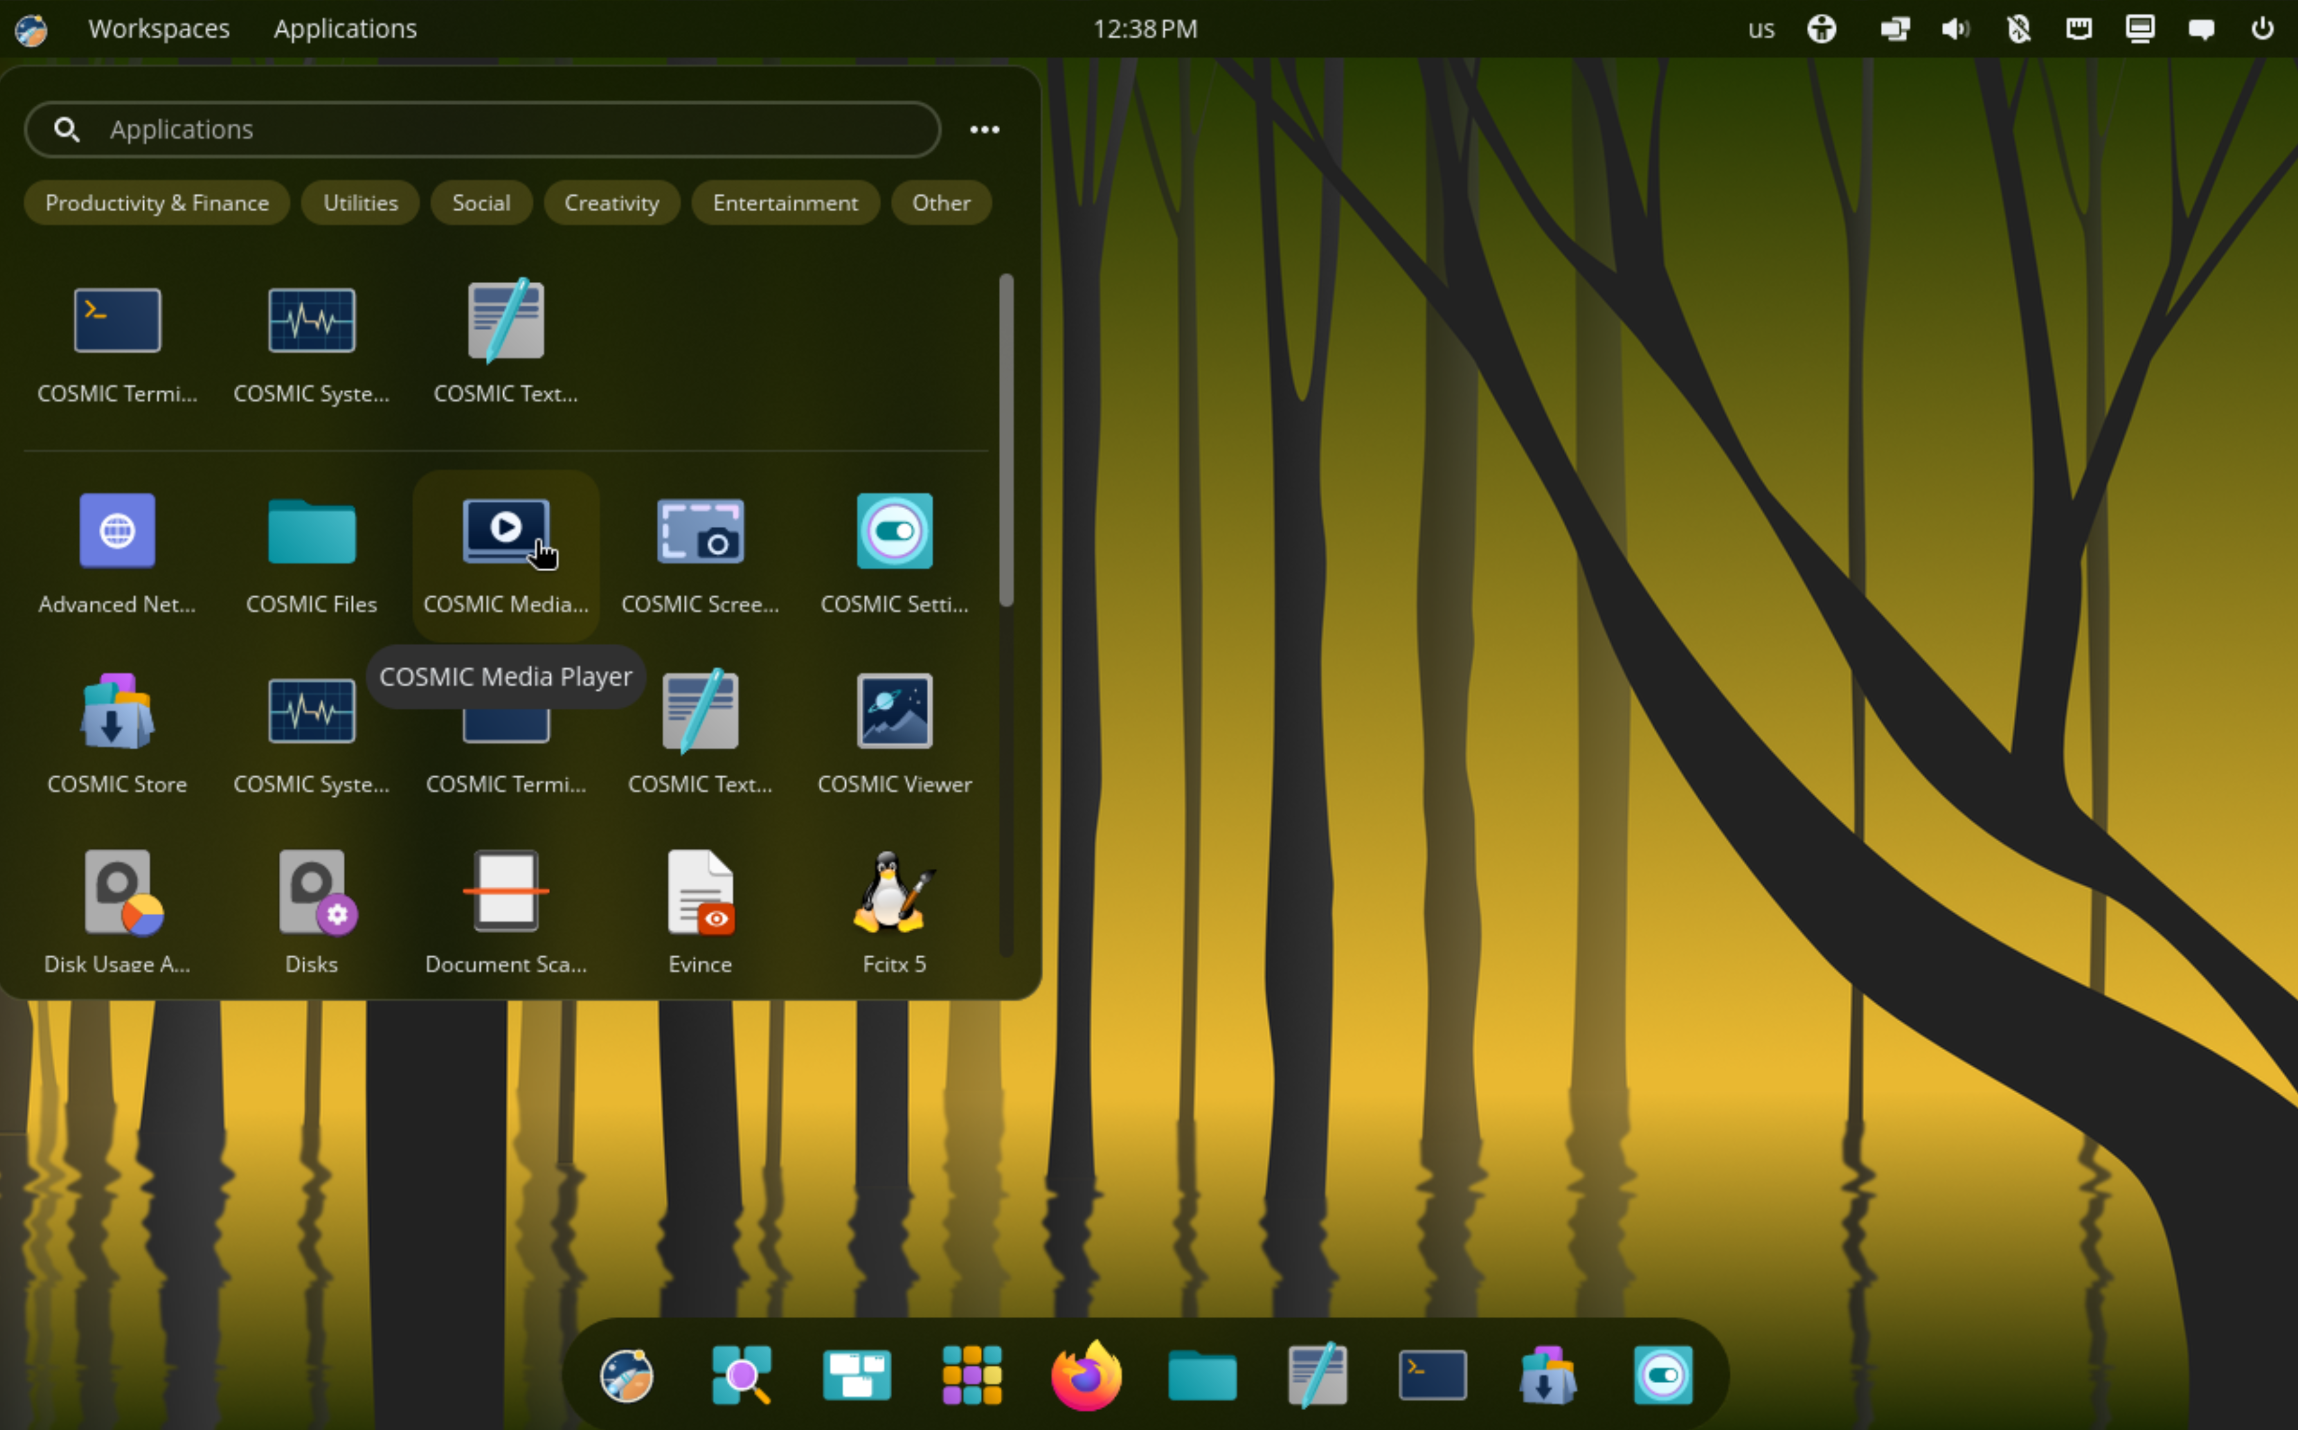
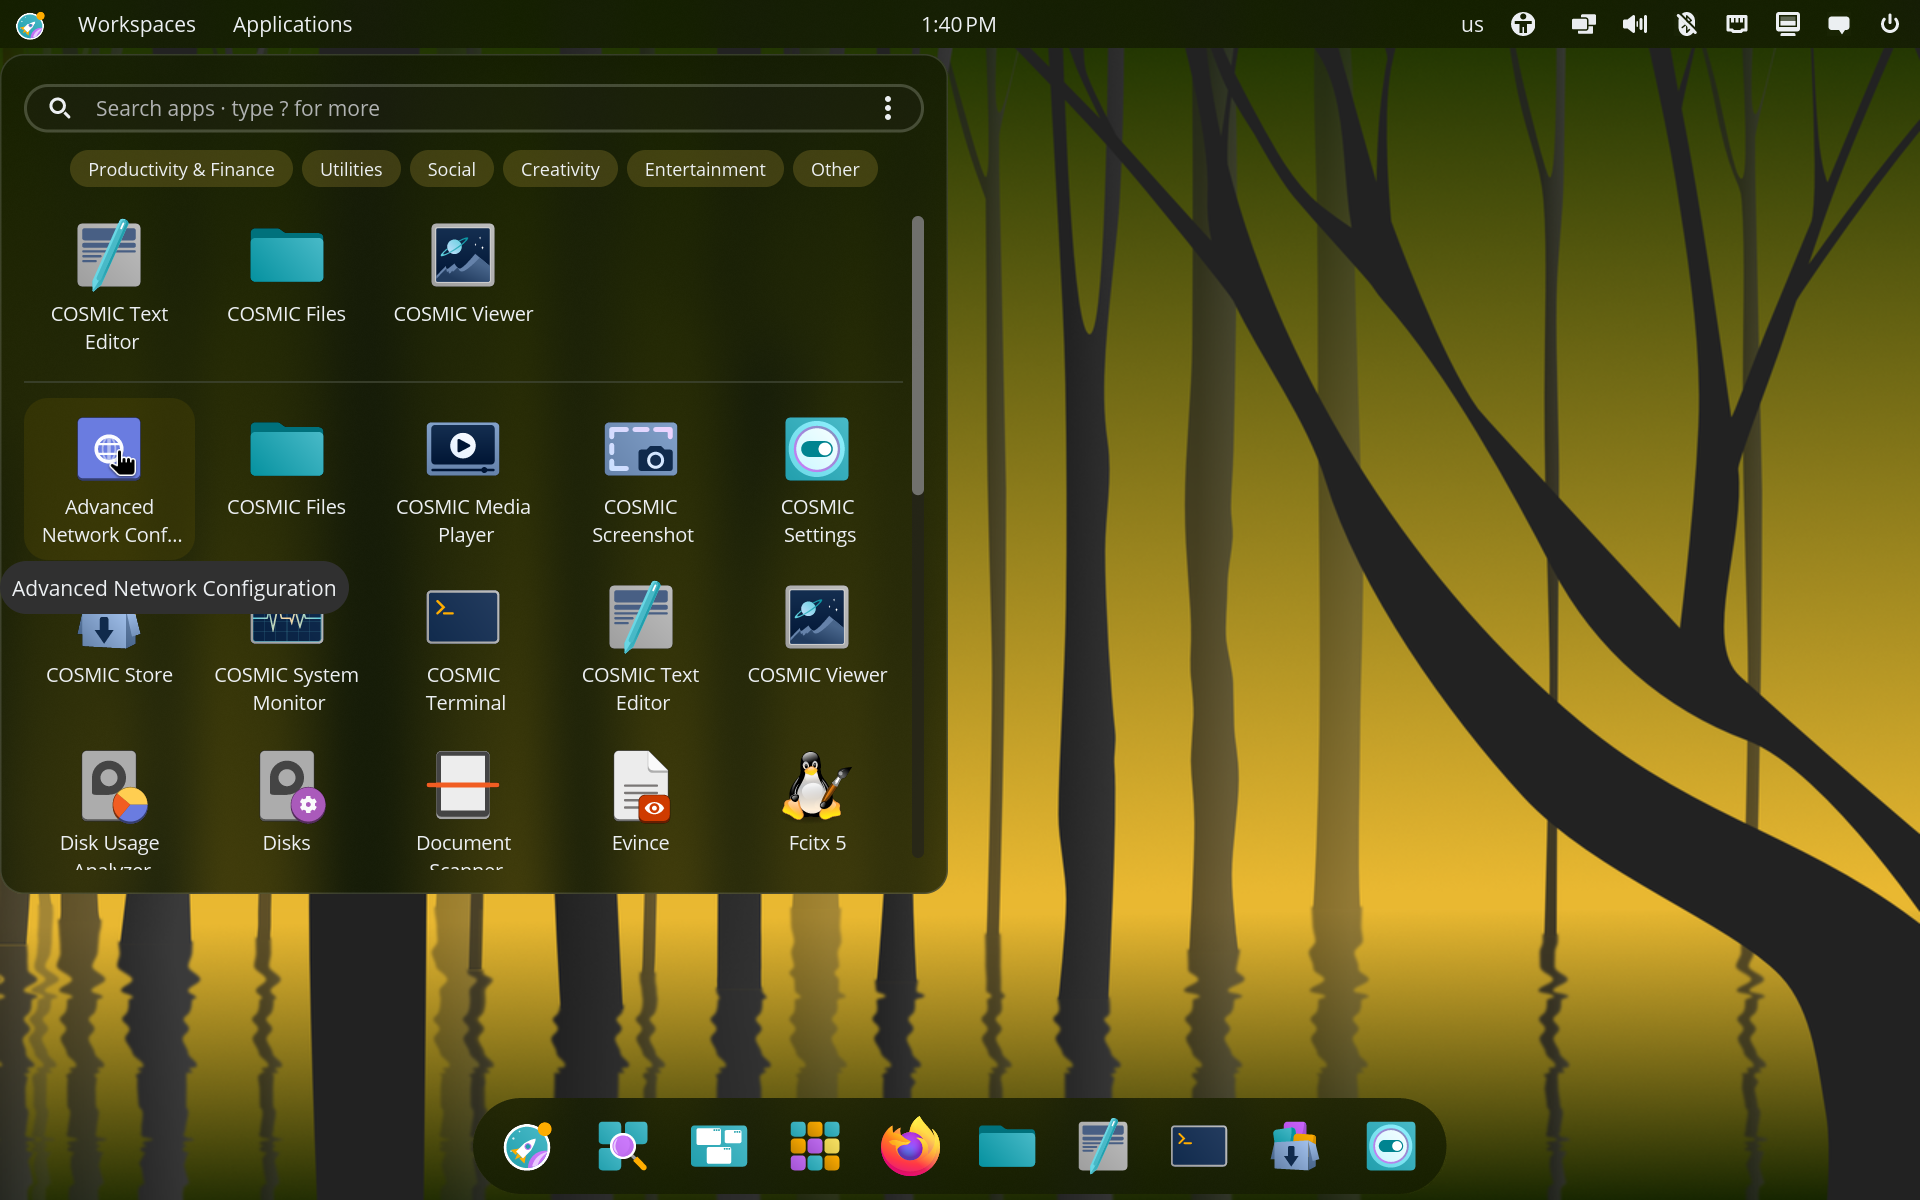
Update the README with new screenshots and features
The three screenshots are retaken in the same setups with the current
version (centered with a top panel and dock, centered with a bottom
panel, attached to the panel button), and two new ones show the search
plugins and the ⋮ menu. The feature list now covers the search plugins,
open-window search, Alt+N, the AppGrid-style labels and the font size
option, and the settings table lists font_size. A Developers section
follows the COSMIC applet template.

diff --git a/README.md b/README.md
@@ -8,20 +8,40 @@ A frosted-glass application grid launcher for the [COSMIC™](https://system76.c
 
 ![Oumuamua attached to its panel button](screenshots/attached-to-panel.png)
 
+![Typing ? lists the search plugins](screenshots/search-plugins.png)
+
+![The ⋮ menu with the font size option](screenshots/menu.png)
+
 This is a community project. It is not affiliated with or endorsed by System76.
 
 - **Always centered.** By default the grid opens in the exact middle of the screen, wherever the panel or dock is.
-- **Or attached to the panel.** The ⋯ menu turns it into a popup attached to its panel button, like the Windows 11 Start menu, and back again.
-- **Launchpad-style layout.** A search field, category chips (Productivity & Finance, Utilities, Social, Creativity, Entertainment, Other), a row of recently used apps, and a scrolling grid of all apps.
+- **Or attached to the panel.** The ⋮ menu in the search field turns it into a popup attached to its panel button, like the Windows 11 Start menu, and back again.
+- **AppGrid-style layout.** A search field, category chips (Productivity & Finance, Utilities, Social, Creativity, Entertainment, Other), a row of recently used apps, and a scrolling grid of all apps. App names wrap onto two lines like Plasma's AppGrid, and a tooltip shows the full name when it's cut short.
+- **One search field for everything.** Typing searches your apps and open windows. Prefixes turn the field into other tools; type `?` to list them:
+
+  | Type | What it does |
+  |---|---|
+  | `= 2 × (3 + 4)` or just `2+2` | Calculator. Enter copies the result. |
+  | `~/` | Browse files and folders. Tab completes. |
+  | `find name` | Find files and folders in your home folder. |
+  | `recent` | Recently opened documents. |
+  | `run command` or `t:command` | Run a command in a terminal. |
+  | `:command` | Run a command silently in the background. |
+  | `ddg`, `g`, `w`, `yt`, `gh` + words | Search DuckDuckGo, Google, Wikipedia, YouTube or GitHub. |
+  | `reboot`, `lock`, `shut`… | Session and power actions. |
+  | part of a window title | Switch to that open window. |
+
+- **Fast keyboard use.** Start typing to search. The arrow keys and Tab move the selection, Enter opens it, Alt+1…9 opens a result directly, Esc closes, and PgUp/PgDn jump a screen.
+- **Adjustable font size.** *Font size* in the ⋮ menu goes from 9 to 20, like the spin buttons in COSMIC Settings. Every text in the grid, the results and the menu follows, and the cells grow with it.
 - **Glass that follows your desktop settings.** The grid uses COSMIC's own Frosted glass settings (*Settings → Desktop → Appearance → Frosted glass*):
   - The centered grid follows the **System interface** toggle.
   - The panel popup follows the **Applets** toggle.
   - Both use your blur strength and glass opacity, and update live when you change them.
-- **Fast keyboard use.** Start typing to search. The arrow keys and Tab move the selection, Enter launches, Esc closes, and PgUp/PgDn jump a screen.
-- **Session and power options** in the ⋯ menu: Lock, Suspend, Log out, Restart and Shut down. Log out, Restart and Shut down ask for confirmation with COSMIC's own dialog.
-- **Fits every language.** The ⋯ menu and the category chips size themselves to the translated text, so nothing wraps, scrolls or gets cut off.
-- **Translated** into Brazilian Portuguese, Spanish, French and Esperanto, with an About page (⋯ → *About Oumuamua*) that links to this repository.
-- **Its own icon.** A porthole with a planet and a rocket, inspired by the Pop!_OS installer artwork. It comes in color for a Windows-style bottom panel or dock, or in monochrome to match the other top-panel icons (switch it in the ⋯ menu).
+- **Session and power options** in the ⋮ menu: Lock, Suspend, Log out, Restart and Shut down. Log out, Restart and Shut down ask for confirmation with COSMIC's own dialog.
+- **Fits every language.** The ⋮ menu and the category chips size themselves to the translated text, so nothing wraps, scrolls or gets cut off.
+- **Translated** into Brazilian Portuguese, Spanish, French and Esperanto, with an About page (⋮ → *About Oumuamua*) that links to this repository.
+- **Its own icon.** A porthole with a planet and a rocket, inspired by the Pop!_OS installer artwork. It comes in color for a Windows-style bottom panel or dock, or in monochrome to match the other top-panel icons (switch it in the ⋮ menu).
+- **Works alongside COSMIC's launcher.** Oumuamua has its own plugins and settings, and doesn't replace or change COSMIC Launcher or the App Library.
 
 ## Components
 
@@ -39,6 +59,7 @@ Settings are stored with cosmic-config at `~/.config/cosmic/io.github.broly1.Oum
 | `rows` | `4` | Rows visible at once (the rest scrolls) |
 | `icon_size` | `52` | Icon size in pixels (32–128) |
 | `symbolic_icon` | `false` | Use the monochrome panel icon |
+| `font_size` | `13` | Font size of the app names (9–20); the rest of the text follows |
 | `recent` | `[]` | Recently launched desktop entry IDs, newest first |
 
 Categories come from each app's freedesktop.org `Categories=` key. Office and finance apps go to Productivity & Finance, graphics and development tools to Creativity, browsers, mail and chat to Social, games and media players to Entertainment, and system tools to Utilities. Everything else goes to Other.
@@ -111,6 +132,10 @@ just rootdir=debian/cosmic-ext-oumuamua prefix=/usr install
 
 It is recommended to build a source tarball with the vendored dependencies, which can typically be done by running `just vendor` on the host system before it enters the build environment.
 
+## Developers
+
+Developers should install [rustup][rustup] and configure their editor to use [rust-analyzer][rust-analyzer]. Run `just check` (clippy) and `cargo fmt` before sending changes.
+
 ## How the centering works
 
 The centered grid is a full-screen Wayland layer surface on the overlay layer with `exclusive_zone = -1`, so panels and docks don't shift it. libcosmic then pads the surface down to the grid's size, with equal padding on each side, and the blur is requested together with that padding so it only ever covers the panel. Clicking outside the grid closes it.
@@ -129,3 +154,5 @@ COSMIC™ is a trademark of System76, Inc.
 [fluent-guide]: https://projectfluent.org/fluent/guide/hello.html
 [iso-codes]: https://en.wikipedia.org/wiki/List_of_ISO_639-1_codes
 [just]: https://github.com/casey/just
+[rustup]: https://rustup.rs/
+[rust-analyzer]: https://rust-analyzer.github.io/
